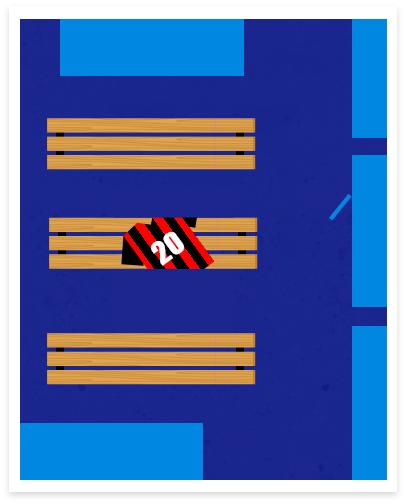
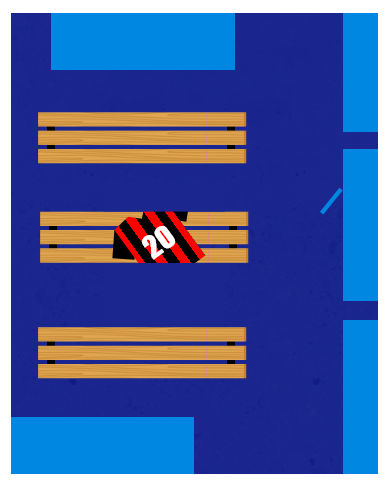
Transitions entre les étapes
Transition entre VR/table après un évent CLUE_FOUND
Il faudra rajouter le comportement une fois le modèle de données établi

Ajout d'un mock-controller pour tester durant le dev

diff --git a/src/builder/stadium-builder.js b/src/builder/stadium-builder.js
@@ -1,0 +1,155 @@
+import $ from 'jquery/dist/jquery.min';
+import { WINDOW_HEIGHT, WINDOW_WIDTH } from 'tuiomanager/core/constants';
+import ElementWidget from 'tuiomanager/widgets/ElementWidget/ElementWidget';
+import { AnotherDeviceActionWidget } from '../ImageWidget/another-device-action-widget';
+import ImageClicWidget from '../ImageWidget/image-clic-widget';
+import StaticImageWidget from '../ImageWidget/static-image-widget';
+import {
+  CLUE_FOUND,
+  EXPLORE_PLACE,
+  GAME_BACKGROUND_IMG,
+  STADIUM_IMG,
+  TAKE_VR_IMG,
+} from '../SocketIOClient/constants';
+import SocketIOClient from '../SocketIOClient/SocketIOClient';
+import { StaticTextWidget } from '../TextWidget/static-text-widget';
+import Builder from './builder';
+
+export class StadiumBuilder extends Builder {
+  constructor() {
+    super();
+    this.state = 'START';
+    this.rootElement = $('#app');
+  }
+
+  static get TRANSITIONS() {
+    return {
+      START: 'START',
+      EXPLORING: 'EXPLORING',
+      SWIPE_LEFT: 'SWIPE_LEFT',
+      FINISH_VR: 'FINISH_VR',
+    }
+  }
+
+  static get ACTIONS() {
+    return {
+      FINISHED: 'FINISHED',
+    }
+  }
+
+  bindEvents() {
+    SocketIOClient.getInstance()
+      .onEvent(CLUE_FOUND, async () => {
+        if (this.state === 'EXPLORING') {
+          await this.transition(StadiumBuilder.TRANSITIONS.FINISH_VR);
+          await this.transition(StadiumBuilder.TRANSITIONS.SWIPE_LEFT);
+          this.emitAction(StadiumBuilder.ACTIONS.FINISHED);
+          this.state = 'DONE';
+        }
+      });
+  }
+
+  draw() {
+    this._drawInitialStadium();
+    this.transition(StadiumBuilder.TRANSITIONS.START);
+  }
+
+  _drawInitialStadium() {
+    this._background = new StaticImageWidget(0, 0, 1920, 1080, GAME_BACKGROUND_IMG);
+    this.rootElement.append(this._background.domElem);
+    this._stadium = new ImageClicWidget(WINDOW_WIDTH / 2 - (715 / 2), WINDOW_HEIGHT / 2 - (1037 / 2), 715, 1037, STADIUM_IMG);
+    this._stadium.domElem.addClass('popup');
+    this._stadium.domElem.addClass('stadium-interactive');
+    this.rootElement.append(this._stadium.domElem);
+
+    this._text = new StaticTextWidget('TOUCHER POUR EXPLORER', 763, 700, 400, 100, 0, 1, {
+      fontSize: 68,
+      textAlign: 'center',
+      fontWeight: 'bold',
+    });
+    this._textReverse = new StaticTextWidget('TOUCHER POUR EXPLORER', 763, 177, 400, 100, 180, 1, {
+      fontSize: 68,
+      textAlign: 'center',
+      fontWeight: 'bold',
+    });
+
+    this._stadium.onClick = () => {
+      // region Start explore stadium on VR
+      if (this.state === 'START') {
+        this.state = 'EXPLORING';
+        SocketIOClient.getInstance()
+          .sendEvent(EXPLORE_PLACE);
+        this._text.domElem.css('z-index', ElementWidget.zIndexGlobal + 1);
+        this._textReverse.domElem.css('z-index', ElementWidget.zIndexGlobal + 1);
+        this.transition(StadiumBuilder.TRANSITIONS.EXPLORING) // FadeOut text then show take_vr symbol
+          .then(() => {
+            this._waitingAction = new AnotherDeviceActionWidget(795, 172, 337.66, 620, TAKE_VR_IMG);
+            this._waitingAction.domElem.css('z-index', ElementWidget.zIndexGlobal + 1);
+            this._waitingAction.addTo('#app');
+          });
+      }
+      // endregion
+    };
+
+    // Set classes
+    this._text.domElem.addClass('stadium-text');
+    this._textReverse.domElem.addClass('stadium-text');
+    // Hide elements
+    this._text.domElem.hide();
+    this._textReverse.domElem.hide();
+    // Add to DOM
+    this._text.addTo('#app');
+    this._textReverse.addTo('#app');
+  }
+
+  undraw() {
+    this._background.domElem.remove();
+    this._text.domElem.remove();
+    this._textReverse.domElem.remove();
+    this._stadium.domElem.remove();
+  }
+
+  async transition(transition) {
+    switch (transition) {
+      case StadiumBuilder.TRANSITIONS.START:
+        return new Promise((resolve) => {
+          setTimeout(() => {
+            this._text.domElem.fadeIn();
+            this._textReverse.domElem.fadeIn();
+            resolve();
+          }, 400)
+        });
+      case StadiumBuilder.TRANSITIONS.EXPLORING:
+        return new Promise((resolve) => {
+          this._text.domElem.fadeOut();
+          this._textReverse.domElem.fadeOut();
+          setTimeout(() => {
+            resolve();
+          }, 400)
+        });
+      case StadiumBuilder.TRANSITIONS.FINISH_VR:
+        this._waitingAction.domElem.fadeOut();
+        return new Promise((resolve) => {
+          setTimeout(() => {
+            resolve();
+          }, 750);
+        });
+      case StadiumBuilder.TRANSITIONS.SWIPE_LEFT:
+        return new Promise((resolve) => {
+          this._stadium.domElem.css('left', '25px');
+          setTimeout(() => {
+            resolve();
+          }, 2000);
+        });
+      default:
+        console.error(`Unknown transition : ${transition}`);
+    }
+    return Promise.resolve();
+  }
+
+  unbindEvents() {
+    SocketIOClient.getInstance()
+      .onEvent(CLUE_FOUND, () => {
+      });
+  }
+}

diff --git a/src/builder/game-builder.js b/src/builder/game-builder.js
@@ -1,22 +1,18 @@
-import $ from 'jquery/dist/jquery.min';
-import { WINDOW_HEIGHT, WINDOW_WIDTH } from 'tuiomanager/core/constants';
+import { DEVICE_DISCONNECTED } from '../SocketIOClient/constants';
 import SocketIOClient from '../SocketIOClient/SocketIOClient';
-import { StaticTextWidget } from '../TextWidget/static-text-widget';
 import Builder from './builder';
-import {
-  DEVICE_DISCONNECTED,
-  GAME_BACKGROUND_IMG,
-  STADIUM_IMG,
-} from '../SocketIOClient/constants';
-import StaticImageWidget from '../ImageWidget/StaticImageWidget';
-import { DisconnectedDeviceBuilder } from './DisconnectedDeviceBuilder';
+import { DisconnectedDeviceBuilder } from './disconnected-device-builder';
+import { LockerRoomBuilder } from './locker-room-builder';
+import { StadiumBuilder } from './stadium-builder';
 
 export class GameBuilder extends Builder {
   constructor() {
     super();
-    this._background = null;
-    this._stadium = null;
-    this.rootElement = $('#app');
+    this._stadium = new StadiumBuilder();
+    this._stadium.onAction(StadiumBuilder.ACTIONS.FINISHED, () => {
+      this._lockerRoom = new LockerRoomBuilder();
+      this._lockerRoom.draw();
+    })
   }
 
   bindEvents() {
@@ -31,66 +27,20 @@ export class GameBuilder extends Builder {
           this.bindEvents();
         });
       });
+    this._stadium.bindEvents();
   }
 
   draw() {
-    this._background = new StaticImageWidget(0, 0, 1920, 1080, GAME_BACKGROUND_IMG);
-    this.rootElement.append(this._background.domElem);
-    this._stadium = new StaticImageWidget(WINDOW_WIDTH / 2 - (715 / 2), WINDOW_HEIGHT / 2 - (1037 / 2), 715, 1037, STADIUM_IMG);
-    this._stadium.domElem.addClass('popup');
-    this._stadium.domElem.addClass('stadium-interactive');
-    this.rootElement.append(this._stadium.domElem);
-
-    this._text = new StaticTextWidget('TOUCHER POUR EXPLORER', 763, 700, 400, 100, 0, 1, {
-      fontSize: 68,
-      textAlign: 'center',
-      fontWeight: 'bold',
-    });
-    this._textReverse = new StaticTextWidget('TOUCHER POUR EXPLORER', 763, 177, 400, 100, 180, 1, {
-      fontSize: 68,
-      textAlign: 'center',
-      fontWeight: 'bold',
-    });
-    // Set classes
-    this._text.domElem.addClass('stadium-text');
-    this._textReverse.domElem.addClass('stadium-text');
-    // Hide elements
-    this._text.domElem.hide();
-    this._textReverse.domElem.hide();
-    // Add to DOM
-    this._text.addTo('#app');
-    this._textReverse.addTo('#app');
-    this.transition(GameBuilder.TRANSITIONS.START);
+    this._stadium.draw();
   }
 
-  static get TRANSITIONS() {
-    return {
-      START: 'START',
-    }
-  }
-
-  async transition(transition) {
-    switch (transition) {
-      case GameBuilder.TRANSITIONS.START:
-        return new Promise((resolve) => {
-          setTimeout(() => {
-            this._text.domElem.fadeIn();
-            this._textReverse.domElem.fadeIn();
-            resolve();
-          }, 400)
-        });
-      default:
-        console.error(`Unknown transition : ${transition}`);
-    }
-    return Promise.resolve();
-  }
 
   undraw() {
-    this._background.domElem.remove();
-    this._stadium.domElem.remove();
+    this._stadium.undraw();
   }
 
   unbindEvents() {
+    this._stadium.unbindEvents();
     SocketIOClient.getInstance()
       .onEvent(DEVICE_DISCONNECTED, () => {
       });

diff --git a/src/builder/locker-room-builder.js b/src/builder/locker-room-builder.js
@@ -1,0 +1,17 @@
+import $ from 'jquery/dist/jquery.min';
+import ImageClicWidget from '../ImageWidget/image-clic-widget';
+import { LOCKER_ROOM_IMG } from '../SocketIOClient/constants';
+import Builder from './builder';
+
+export class LockerRoomBuilder extends Builder {
+  constructor() {
+    super();
+    this.rootElement = $('#app');
+  }
+
+  draw() {
+    this._lockerRoomWidget = new ImageClicWidget(767, 21.5, 406, 504, LOCKER_ROOM_IMG);
+    this._lockerRoomWidget.domElem.addClass('popup');
+    this._lockerRoomWidget.addTo(this.rootElement);
+  }
+}

diff --git a/src/SocketIOClient/constants.js b/src/SocketIOClient/constants.js
@@ -23,3 +23,7 @@ export const REFEREE_IMG = 'assets/referee.png';
 export const LOCKER_ROOM_IMG = 'assets/locker-room.png';
 export const VR_DISCONNECTED_IMG = 'assets/vr_disconnected.png';
 export const TABLET_DISCONNECTED_IMG = 'assets/tablet_disconnected.png';
+export const TAKE_VR_IMG = 'assets/devices/take_vr.png';
+export const TAKE_TABLET_IMG = 'assets/devices/take_tablet.png';
+export const TAKE_VR_WHITE_IMG = 'assets/devices/take_vr_white.png';
+export const TAKE_TABLET_WHITE_IMG = 'assets/devices/take_tablet_white.png';

diff --git a/src/builder/disconnected-device-builder.js b/src/builder/disconnected-device-builder.js
@@ -1,6 +1,6 @@
 import $ from 'jquery/dist/jquery.min';
 import { WINDOW_HEIGHT, WINDOW_WIDTH } from 'tuiomanager/core/constants';
-import { DisconnectedDeviceDialogWidget } from '../ImageWidget/DisconnectedDeviceDialogWidget';
+import { DisconnectedDeviceDialogWidget } from '../ImageWidget/disconnected-device-dialog-widget';
 import { DEVICE_CONNECTED } from '../SocketIOClient/constants';
 import SocketIOClient from '../SocketIOClient/SocketIOClient';
 import Builder from './builder';

diff --git a/src/builder/game-home-builder.js b/src/builder/game-home-builder.js
@@ -1,6 +1,6 @@
[1 lines of base64/hex data omitted]
-import ImageClicWidget from '../ImageWidget/ImageClicWidget';
-import StaticImageWidget from '../ImageWidget/StaticImageWidget';
+import ImageClicWidget from '../ImageWidget/image-clic-widget';
+import StaticImageWidget from '../ImageWidget/static-image-widget';
 import {
   DEVICE_CONNECTED,
   DEVICE_DISCONNECTED,

diff --git a/src/builder/home-builder.js b/src/builder/home-builder.js
@@ -1,6 +1,6 @@
 import $ from 'jquery/dist/jquery.min'
-import ImageClicWidget from '../ImageWidget/ImageClicWidget';
-import StaticImageWidget from '../ImageWidget/StaticImageWidget';
+import ImageClicWidget from '../ImageWidget/image-clic-widget';
+import StaticImageWidget from '../ImageWidget/static-image-widget';
 import {
   DEVICE_CONNECTED,
   DEVICE_DISCONNECTED,

diff --git a/src/ImageWidget/another-device-action-widget.js b/src/ImageWidget/another-device-action-widget.js
@@ -1,0 +1,8 @@
+import StaticImageWidget from './static-image-widget';
+
+export class AnotherDeviceActionWidget extends StaticImageWidget {
+  constructor(x, y, width, height, imgSrc) {
+    super(x, y, width, height, imgSrc);
+    this._domElem.addClass('popup')
+  }
+}

diff --git a/src/styles/main.css b/src/styles/main.css
@@ -9,7 +9,7 @@
 }
 
 .stadium-interactive {
-    border: solid 3px red;
+    transition: left 2s;
 }
 
 .stadium-text {
